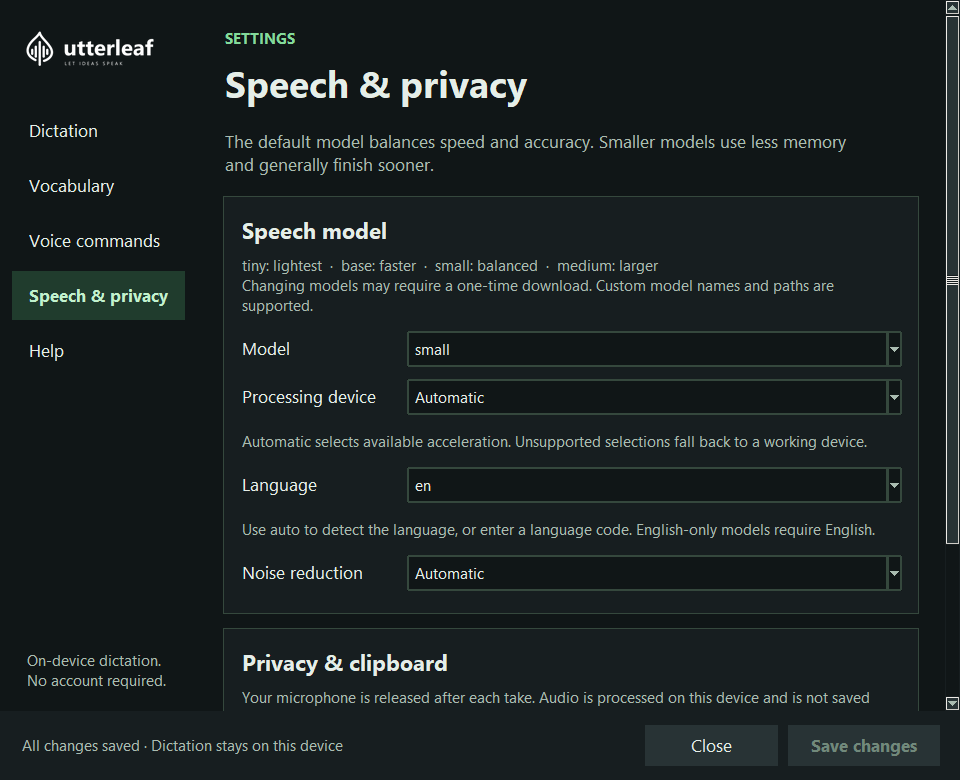
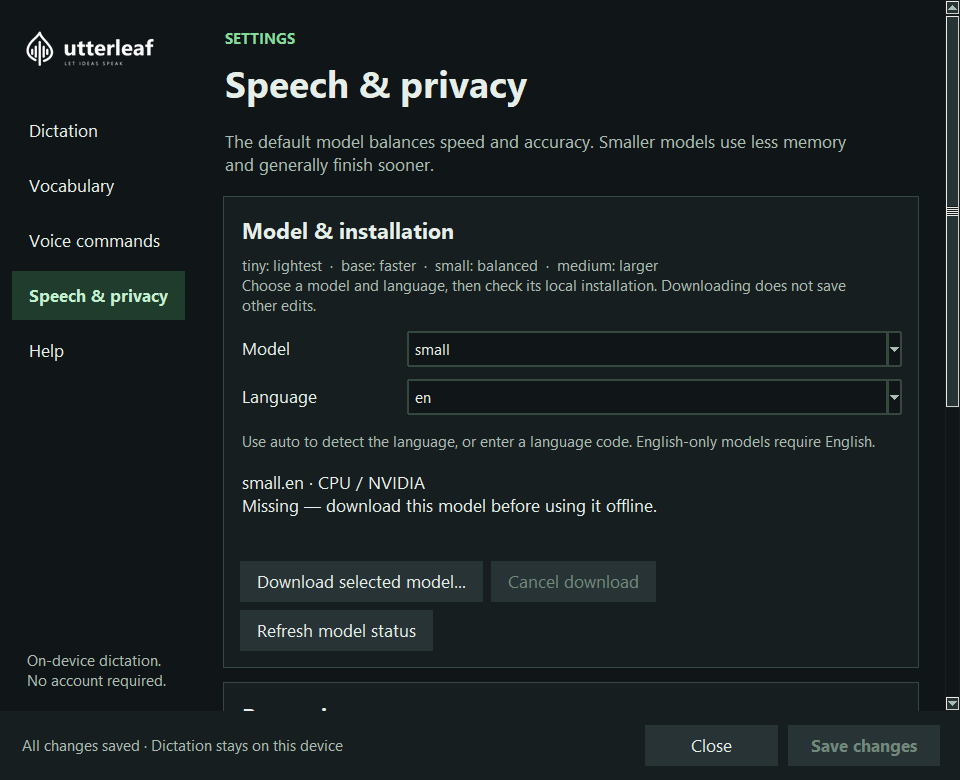
Clarify cached GPU fallback and document desktop setup

diff --git a/utterleaf/hardware.py b/utterleaf/hardware.py
@@ -423,7 +423,7 @@ def probe() -> list[Accelerator]:
         else:
             label = f"CUDA ({cuda_count} device{'s' if cuda_count != 1 else ''})"
         if cuda_count > 0 and not usable:
-            label += ", cublas not found"
+            label += ", CUDA runtime unavailable (libraries missing or disabled after a GPU error)"
         elif cuda_count == 0 and gpu_label:
             label += ", CTranslate2 sees no CUDA device"
             usable = False
@@ -528,7 +528,7 @@ def generate_diagnostic_report(cfg: Config) -> str:
     lines.append("")
     lines.append("CUDA Status:")
     lines.append(f"  Runtime OK: {cuda_runtime_ok()}")
-    lines.append("  Runtime OK checks cuBLAS loading only; GPU detection and cuDNN/model loading are separate checks.")
+    lines.append("  Runtime OK starts with a cuBLAS loading check; a failed GPU attempt also disables it until restart. GPU detection and cuDNN/model loading are separate checks.")
     lines.append(f"  Library Dirs: {', '.join(map(str, cuda_library_dirs()))}")
     if any(item.kind == "gpu" and item.backend == "ctranslate2" and not item.ready for item in accels):
         lines.append("")

diff --git a/tests/test_hardware.py b/tests/test_hardware.py
@@ -265,7 +265,8 @@ def test_windows_diagnostic_contains_actionable_setup(monkeypatch):
     assert "Picked Accelerator: cpu" in report
     assert "RTX 3090" in report and "CUDA 12.x" in report
     assert "Runtime OK: False" in report
-    assert "cuBLAS loading only" in report
+    assert "cuBLAS loading check" in report
+    assert "failed GPU attempt" in report
     assert "pacman" not in report and "UTTERLEAF_BUNDLE_CUDA" not in report
 
 

diff --git a/docs/installation.md b/docs/installation.md
@@ -30,6 +30,17 @@ NVIDIA GPU (driver alone is not enough):
 .\.venv\Scripts\python -m pip install -e ".[cuda]"
 ```
 
+For GPU use in the **packaged Windows release**, open **Settings ? Help ? Set up
+NVIDIA GPU?**, or run `./utterleaf-cli.exe --cuda-setup` from its extracted folder.
+The standard archive works on CPU without the optional NVIDIA math libraries.
+Its CTranslate2 runtime needs compatible CUDA 12.x and cuDNN 9 for CUDA 12:
+use the [CUDA 12.9 archive](https://developer.nvidia.com/cuda-12-9-0-download-archive)
+and [NVIDIA's Windows cuDNN instructions](https://docs.nvidia.com/deeplearning/cudnn/installation/latest/windows.html).
+Follow the Windows DLL/PATH setup, restart Utterleaf and check the diagnostic, then
+try a dictation. A detected card or a loaded cuBLAS DLL alone does not prove that
+cuDNN and model inference work. Installing packages in another Python environment
+does not modify the packaged app.
+
 For a packaged Windows build, open `utterleaf.exe` (or the compatibility entry `utterleafw.exe`). Both are windowless. `utterleaf-cli.exe` is only for terminal diagnostics. When developing from Python, use `pythonw.exe` for normal app launches; the `utterleaf` terminal command is for debugging.
 
 ### macOS

diff --git a/docs/desktop-roadmap.md b/docs/desktop-roadmap.md
@@ -27,6 +27,15 @@ intended field, with understandable local processing and minimal interruption.
 
 ## Current delivery status
 
+**Version 0.4.1:** model installation status and explicit download/repair, grouped
+speech/privacy controls, common audio/video decoding through a selected FFmpeg,
+existing-window activation, separators between completed dictation takes, and
+paused ?scratch that? with verified replacement. Windows GPU setup gives
+platform-specific runtime instructions. Automatic correction still requires a
+supported native Windows Edit field; browsers and other unsupported fields use
+manual recovery. See the [user guide](user-guide.md) for the exact behavior.
+
+
 **Version 0.3.7 usability audit:** direct task headings, compact decorative art,
 visible selection/focus marks, responsive footer messages, readable hardware
 choices, and validation that returns to the invalid field. The

diff --git a/docs/screenshots.md b/docs/screenshots.md
@@ -2,7 +2,8 @@
 
 [Back to Utterleaf](../README.md) · [User guide](user-guide.md)
 
-Real Windows screenshots of the v0.3.7 interface, captured with sample vocabulary.
+Real Windows screenshots captured with sample settings and vocabulary.
+Speech & privacy shows the v0.4.1 model setup; other screens show v0.3.7.
 The app uses bundled artwork and local fonts; no remote content is loaded by Settings.
 
 ## Dictation
